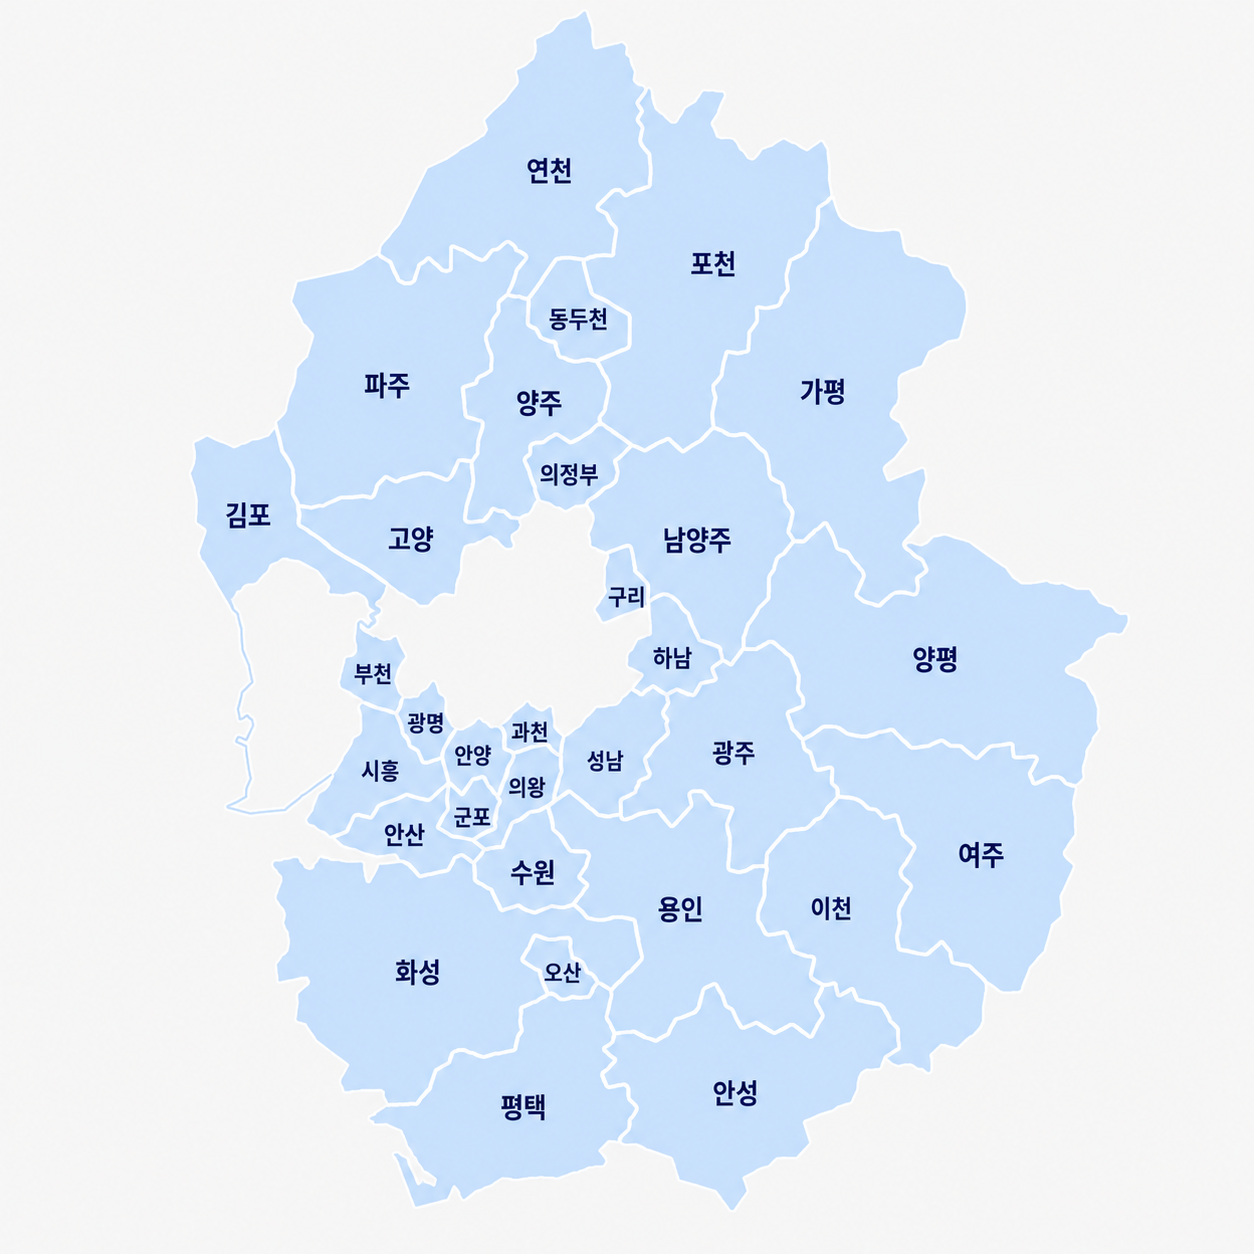
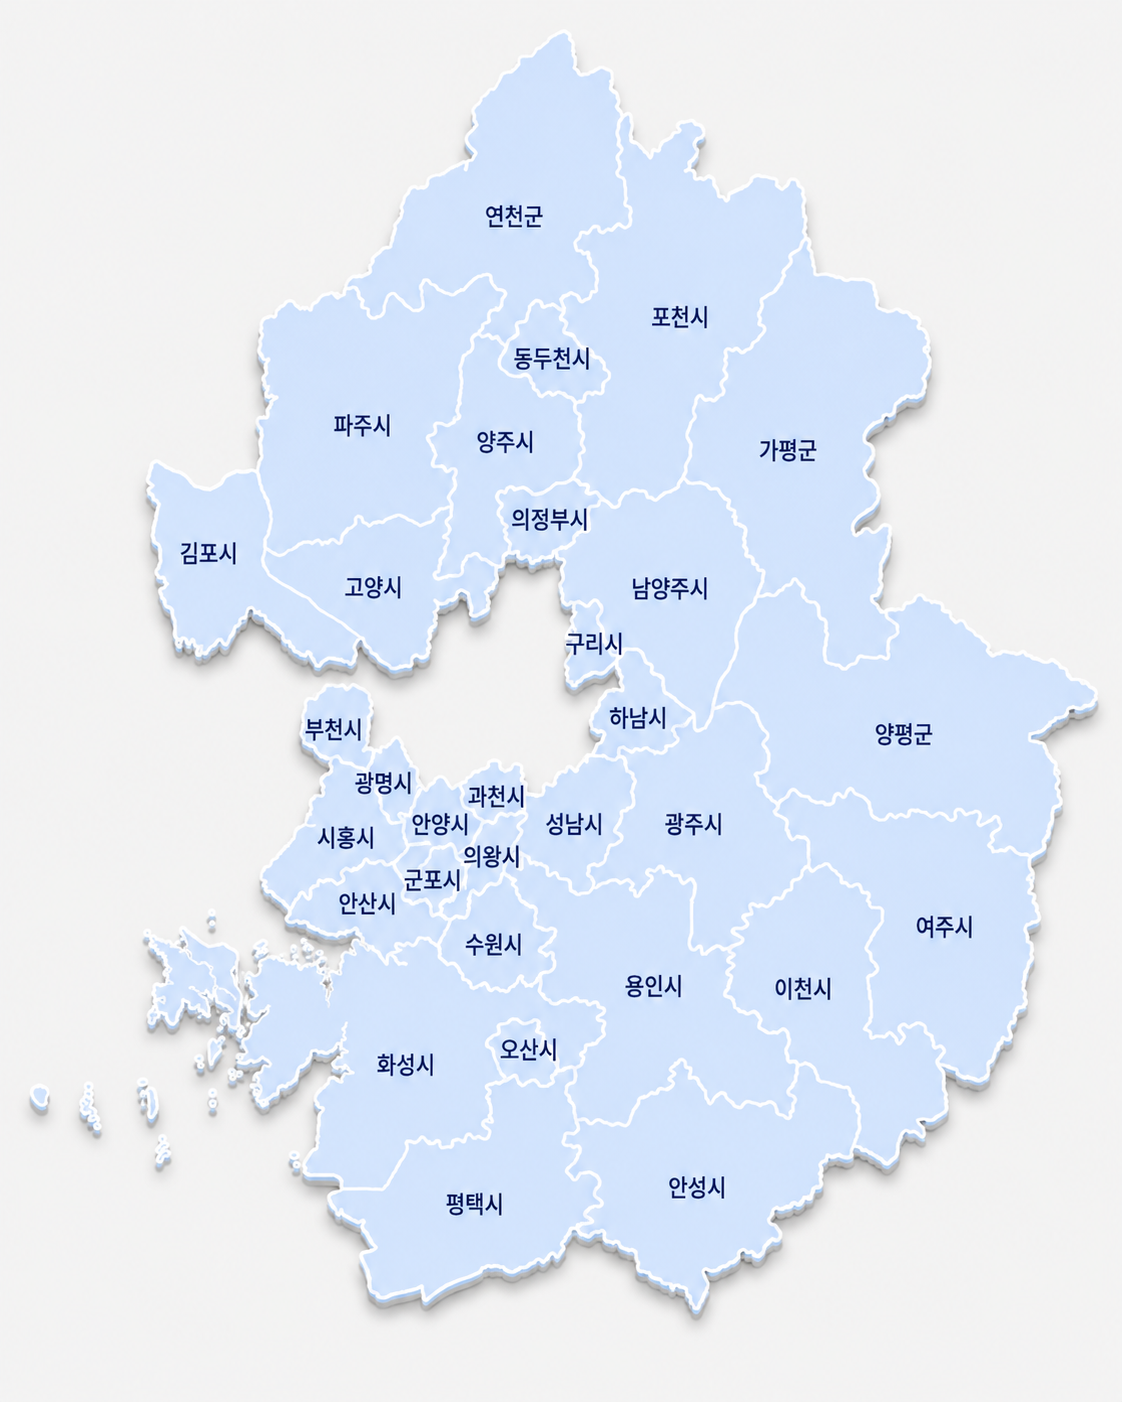
[KG-1192]: [공약추적단] 경기도 및 인천광역시 지도 수정 요청

diff --git a/src/components/Header.tsx b/src/components/Header.tsx
@@ -6,13 +6,13 @@ const Header = () => {
   return (
     <div className="pledge_head_container">
       <img
-        style={{ cursor: 'pointer', height: 80 }}
+        style={{ cursor: 'pointer', height: 75 }}
         src="/images/etc/h_left_logo.png"
         alt="공약추적단 이미지"
         onClick={() => navigate('/')}
       />
       <Link to="https://www.kyeonggi.com/" target="_blank">
-        <img style={{ width: 135, height: 30 }} src="/images/etc/h_right_logo.png" alt="경기일보로고" />
+        <img style={{ height: 30 }} src="/images/etc/h_right_logo.png" alt="경기일보로고" />
       </Link>
     </div>
   );

diff --git a/src/styles/style.css b/src/styles/style.css
@@ -96,7 +96,7 @@ input[type="password"] {
   transition: border-color 0.15s ease-in-out, box-shadow 0.15s ease-in-out;
 }
 input::placeholder {
-  font-size: 13px;
+  font-size: 16px;
   color: #d7d7d7 !important;
   font-weight: 500;
   display: inline-block !important;
@@ -104,7 +104,7 @@ input::placeholder {
 }
 
 textarea::placeholder {
-  font-size: 13px;
+  font-size: 16px;
   color: #d7d7d7 !important;
   font-weight: 500;
 }

diff --git a/src/styles/layout.css b/src/styles/layout.css
@@ -2488,7 +2488,7 @@ span.txt_marking { position: relative; background-color: rgba(250, 242, 4, 0.58)
 .wrapper .pledge_contents_container { width: 1200px; margin: auto; }
 
 /* 헤더 */
-.wrapper .pledge_head_container { display: flex; justify-content: space-between; align-items: center; width: 1200px; margin: auto; padding: 10px 30px 15px; background-color: #fff; }
+.wrapper .pledge_head_container { display: flex; justify-content: space-between; align-items: center; width: 1200px; margin: auto; padding: 5px 30px 10px; background-color: #fff; }
 
 /* 메인화면 */
 /* 상단 대시보드 */